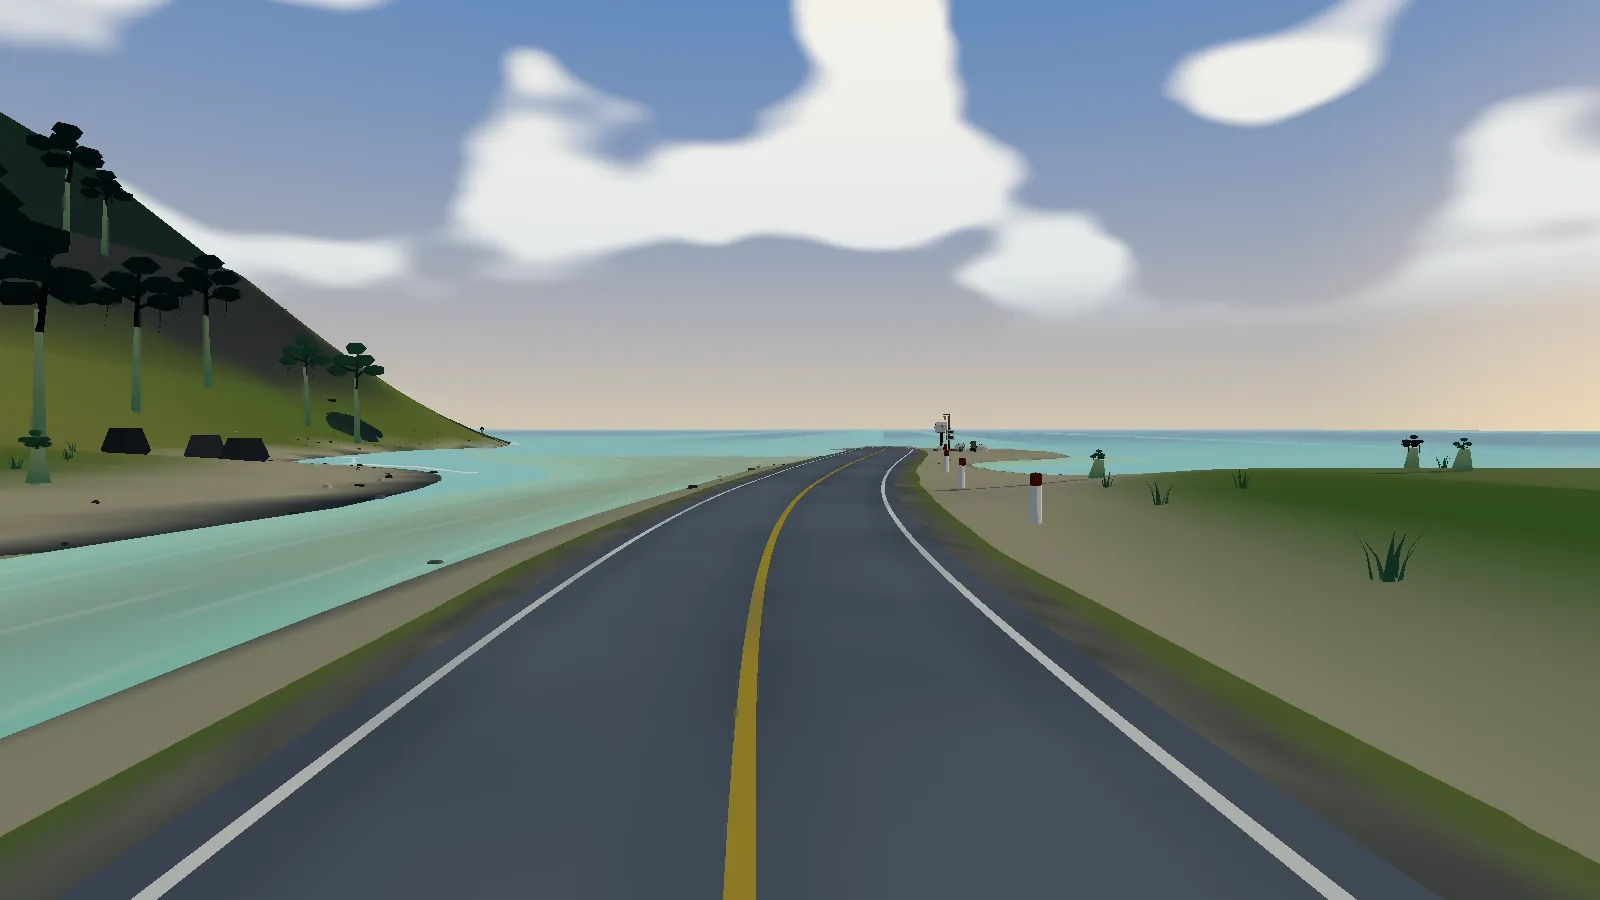
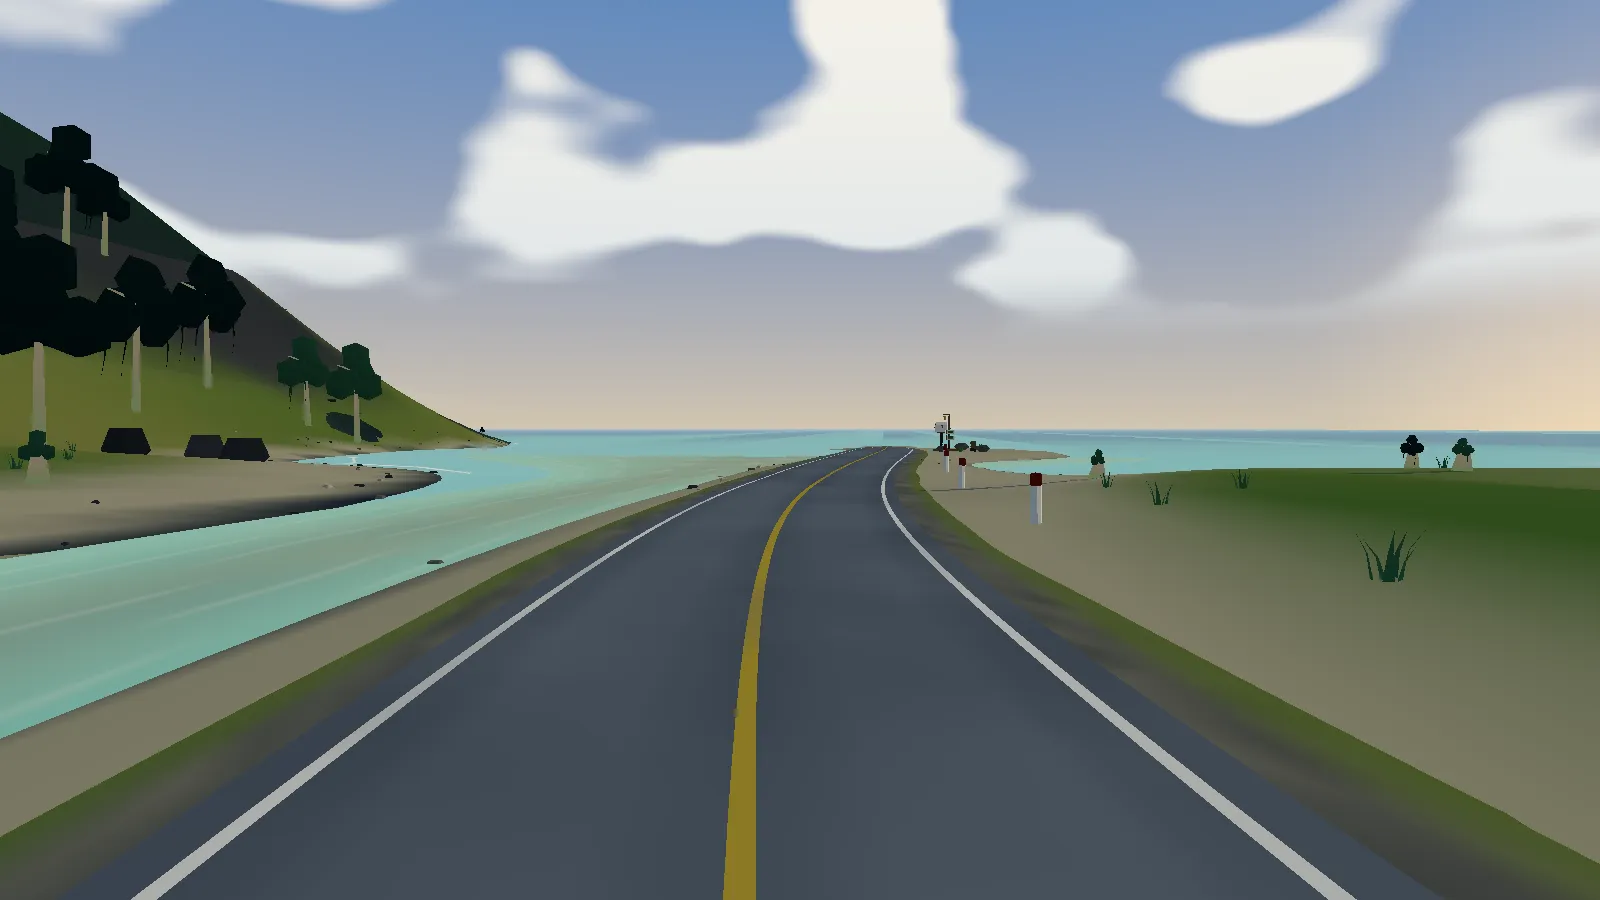
docs(showcase): batch 25 images after crowns/zone colours + checklist

Changed region(s): [[0.0, 0.1244, 0.25, 0.56], [0.875, 0.4978, 0.9375, 0.5289], [0.6562, 0.4978, 0.6875, 0.5289]]

diff --git a/docs/showcase/25-tranh-chan-that/checklist.md b/docs/showcase/25-tranh-chan-that/checklist.md
@@ -1,38 +1,46 @@
-# Showcase đợt 25 (giữa đợt): hướng A "Tranh chân thật"
+# Showcase đợt 25: hướng A "Tranh chân thật"
 
-**Đây là ảnh giữa đợt, chưa phải bản hoàn chỉnh.** Mục đích: Duy xem hướng mới đã đúng ý chưa, trước khi làm tiếp phần chi tiết.
-
-- Chụp bằng trang tour (`tools/styleframes/tour.html`). Trang này dùng đúng bộ ghép world thật, có thêm đường, cầu, bờ đá, núi xa. Không có nhân vật và HUD.
-- Tầm nhìn lấy theo mức High (800 m).
+- Ảnh chụp bằng trang tour (`tools/styleframes/tour.html`). Trang này dùng đúng bộ ghép world thật: đường, cầu, bờ đá, núi xa, phong cảnh xa. Không có nhân vật, không có HUD.
+- Tầm nhìn theo mức High (800 m).
 - Ảnh "đường ven biển" là góc mắt người đứng trên đường, nhìn về phía trước.
+- Duy chấm từng dòng: **giữ / sửa / bỏ**, ghi chú nếu sửa.
 
 | # | Ảnh | Thấy gì | Giữ / Sửa / Bỏ | Ghi chú |
 |---|---|---|---|---|
-| 1 | `01-duong-ven-bien.webp` | Đường nhựa có vạch vàng/trắng. Bên trái là núi rừng, có cột điện. Bên phải là bãi cỏ ra vịnh. Trời xanh có mây | | |
+| 1 | `01-duong-ven-bien.webp` | Đường nhựa có vạch vàng và trắng; trái là núi rừng có cột điện, phải là cỏ ra vịnh. Trời xanh có mây | | |
 | 2 | `02-duong-ven-bien-xa.webp` | Gần cuối đường ven biển, nhìn ra biển | | |
 | 3 | `03-quiet-shore-goc-rong.webp` | Vịnh xanh ngọc, đường uốn theo bờ, núi xanh bên trái, hiên Quiet Shore | | |
 | 4 | `04-quiet-shore.webp` | Hiên có piano, chó, xe | | |
-| 5 | `05-rung-first-light.webp` | Rừng lá rộng, tán khép trên lối, sương xanh ở chiều sâu, nền rêu tối | | |
+| 5 | `05-rung-first-light.webp` | Rừng lá rộng tán tròn khép trên lối, dây leo, sương xanh ở chiều sâu, nền rêu tối | | |
 | 6 | `06-rung-first-light-goc-rong.webp` | Rừng nhìn từ cao | | |
 | 7 | `07-workshop-goc-rong.webp` | Suối xanh, Workshop bên bờ | | |
-| 8 | `08-roots.webp` | Gốc cây cổ thụ (Roots), rừng phía sau | | |
-| 9 | `09-horizon-goc-rong.webp` | Đồi cỏ có tuabin, biển và đảo xa ở chân trời | | |
-| 10 | `10-last-postcard.webp` | Bưu cục cuối đường | | |
+| 8 | `08-roots.webp` | Gốc cổ thụ (Roots) | | |
+| 9 | `09-old-trail.webp` | Đường mòn, cột mốc gỗ | | |
+| 10 | `10-milestones.webp` | Cụm đá đứng (Milestones) | | |
+| 11 | `11-horizon-goc-rong.webp` | Đồi cỏ có tuabin trắng, biển và núi xa ở chân trời | | |
+| 12 | `12-last-postcard.webp` | Bưu cục cuối đường | | |
 
-## Codex đang làm tiếp (đã biết, chưa cần Duy ghi)
+## So với đợt 24
 
-- Tán lá rộng đang là các đĩa phẳng như cái ô → làm thành khối lá tròn. Thân cây đang quá nhạt hoặc quá đen → về màu gỗ.
-- 8 khu còn màu giấy/mực của hướng cũ, và có các đĩa nền xanh đậm dưới tuabin ở Horizon → đổi sang màu tự nhiên.
-- Vệt trắng thẳng trên biển gần chân trời → bỏ.
-
-## Đã đổi so với đợt 24
-
-- **Bỏ màn sương sữa.** Trời xanh có mây; nắng trong, có bóng đổ.
-- **Biển xanh ngọc,** suối trong.
-- **Rừng:** lá rộng là chính; dương xỉ, bụi, gỗ đổ hai bên lối; lá khô trên lối; sương xanh và vệt nắng xuyên tán.
+- **Không còn màn sương sữa.**
+  - Trời xanh có mây; nắng trong, bóng đổ rõ.
+  - Biển xanh ngọc, suối trong.
+- **Rừng:**
+  - Lá rộng là chính: tán khối tròn, có dây leo. Thông chỉ ở rìa giáp đồi.
+  - Hai bên lối có dương xỉ, bụi, gỗ đổ; trên lối có lá khô.
+  - Có sương xanh và vệt nắng xuyên tán.
 - **Đoạn biển:**
-  - đường nhựa, cột tiêu, cột điện;
-  - bờ đá cuội, chồng đá xếp;
-  - núi cao bên trái có đỉnh 110–150 m, mũi đất cuối vịnh.
+  - Đường nhựa có lề sỏi, cột tiêu, cột điện.
+  - Bờ đá cuội, chồng đá xếp.
+  - Núi cao bên trái, đỉnh 110–150 m; mũi đất ở cuối vịnh.
 - **Cầu gỗ có tay vịn** ở 2 chỗ đường cắt suối.
-- **Tầm nhìn trong game:** trước đây camera chỉ thấy 100 m nên không thấy biển và núi xa. Giờ là 260 / 500 / 800 m tuỳ mức chất lượng.
+- **8 khu** đổi sang màu tự nhiên; bỏ các đĩa nền màu đặc.
+- **Tầm nhìn trong game:**
+  - Trước đây camera chỉ thấy 100 m nên không thấy biển và núi xa.
+  - Giờ tầm nhìn là 260 / 500 / 800 m theo mức chất lượng, có thêm lớp phong cảnh xa.
+
+## Lead biết còn thiếu, sẽ làm tiếp
+
+- Thân cây lá rộng còn hơi nhạt và dài.
+- Cây trên sườn núi ven biển, khi nhìn ngược nắng, gần như đen.
+- **Thời gian vào chơi tăng từ 4,96 s lên 8,35 s** (vẫn PASS, ngưỡng 10 s). Ticket B2-179 đang dời các phần dựng không cần ngay ra sau khung hình đầu.
